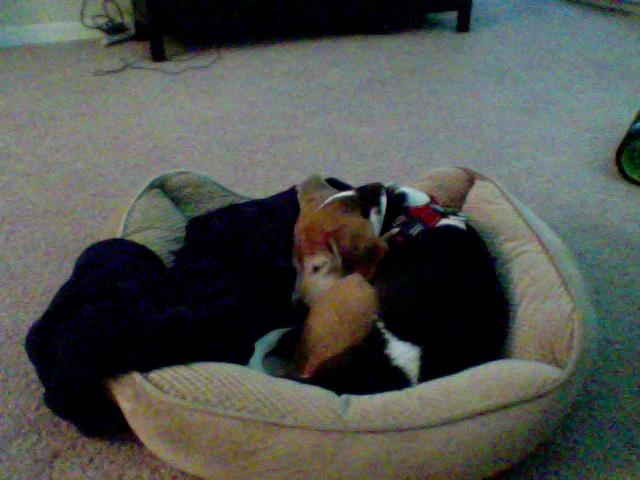
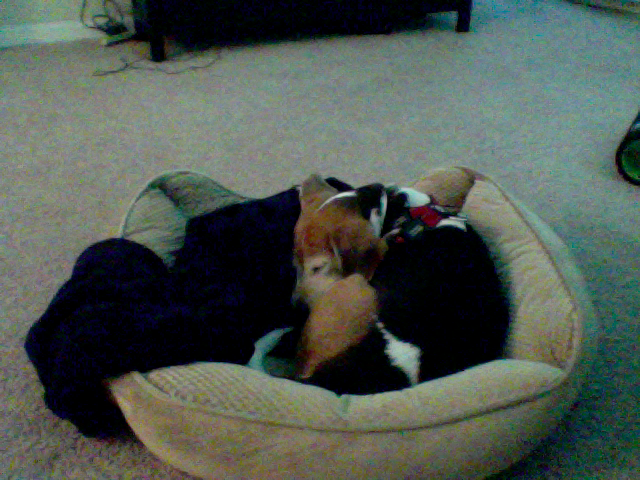
update at Month05Day13Time10:05

diff --git a/index.html b/index.html
@@ -39,8 +39,8 @@
       <!-- Example row of columns -->
       <div class="row">
         <div class="col-md-4">
-	<p>This picture was updated at Month05Day13Time10:04</p>
-		<img src="3_pic.png" />
+	<p>This picture was updated at Month05Day13Time10:05</p>
+		<img src="2_pic.png" />
         </div>
       </div>
 
